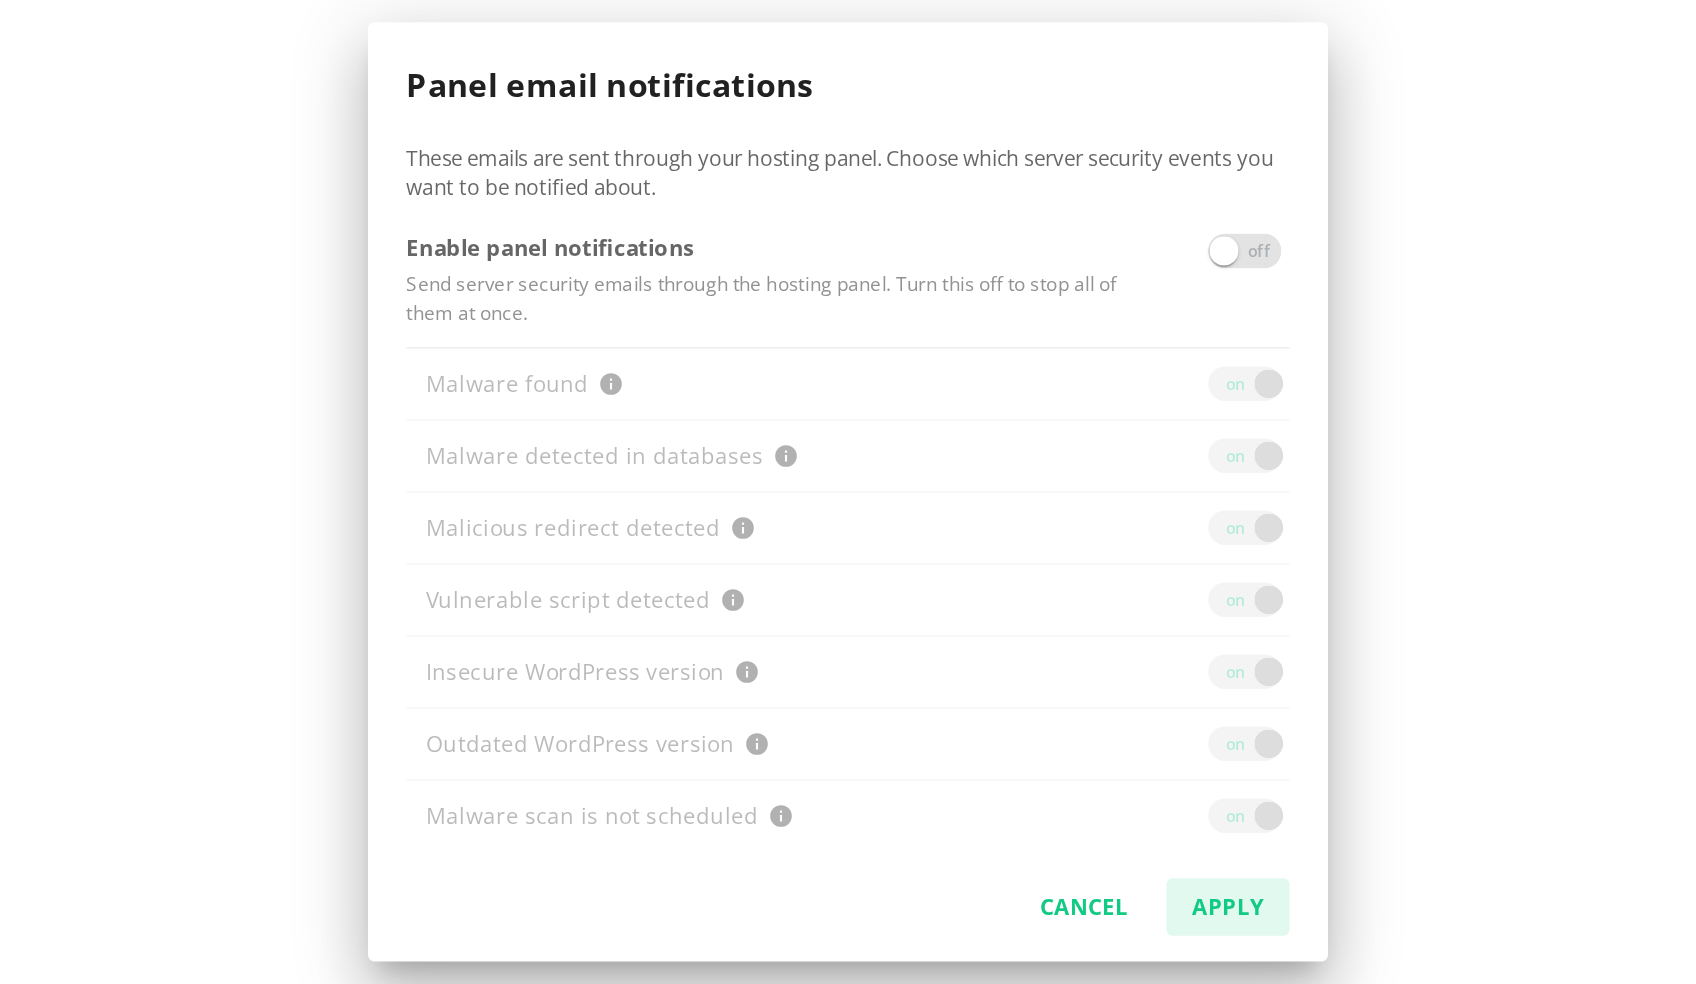
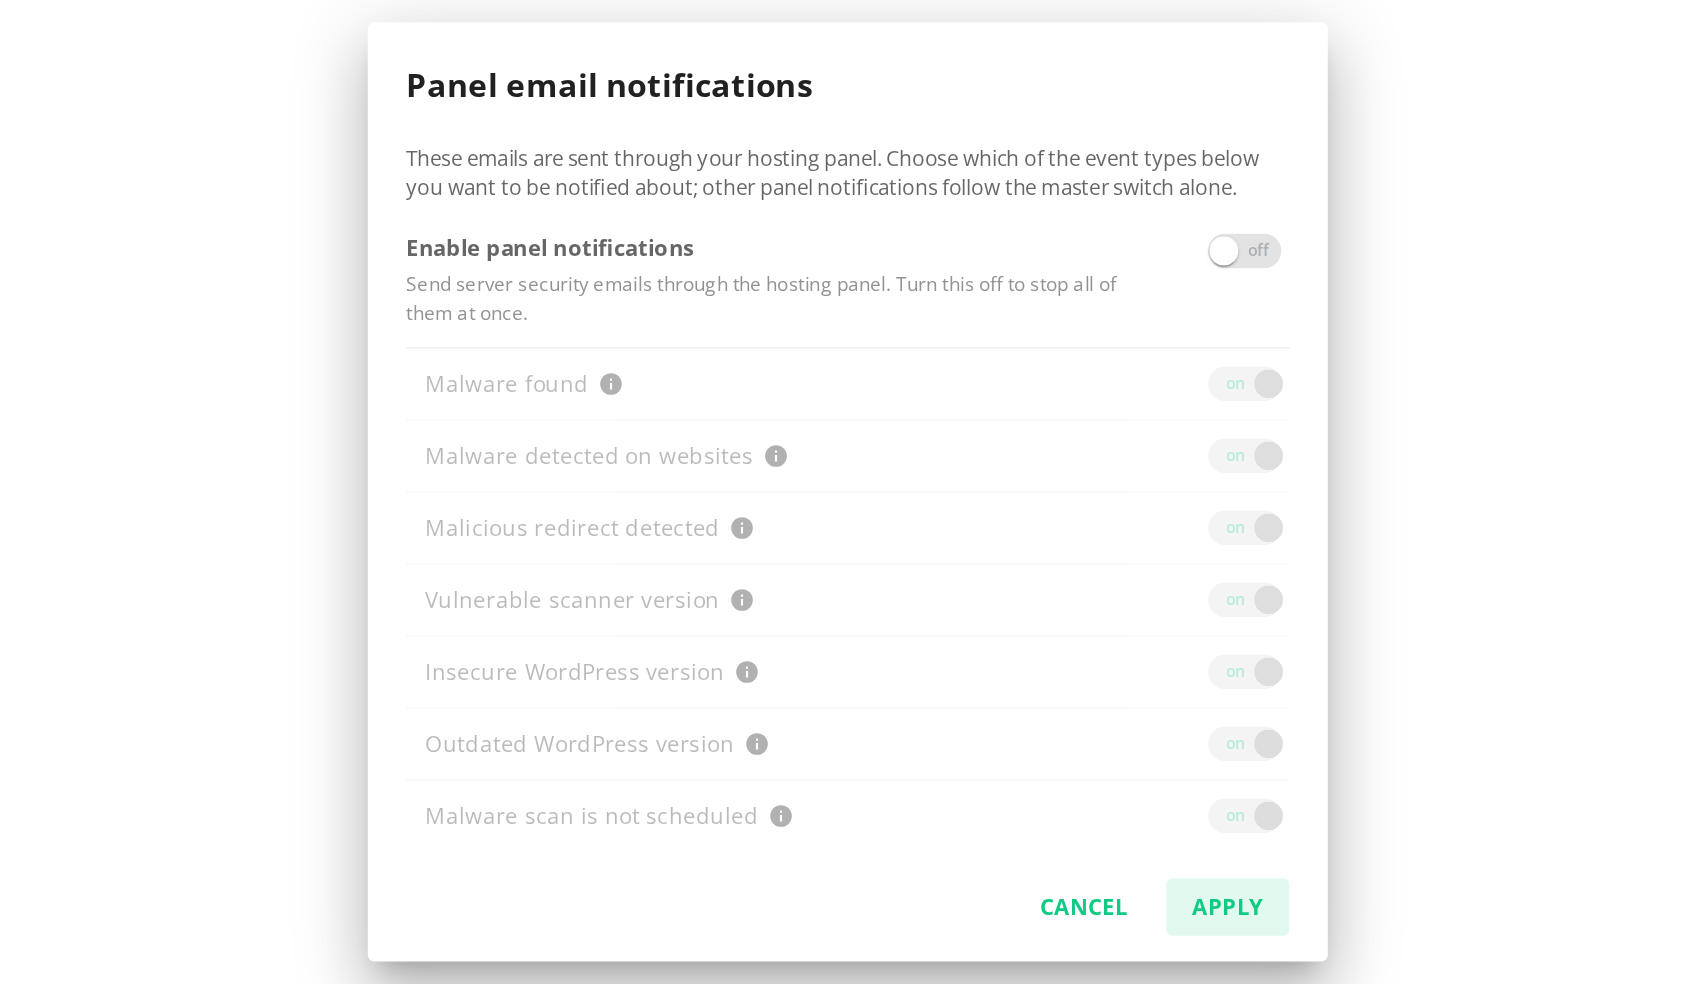
DEF-32258: document the per-product panel notification types
DEF-54860 made the panel notifications dialog show only the message
types the product can receive, and corrected two labels. Bring the docs
in line: the six ImunifyAV/AV+ types, the one type Imunify360 also
receives, and what the master switch still governs there.

diff --git a/docs/features/panel_notifications/README.md b/docs/features/panel_notifications/README.md
@@ -49,8 +49,11 @@ Two consequences follow from this design and account for most support questions:
 
 ## Message types
 
-The dialog lets you switch off seven message types individually. Each one is generated
-independently and has its own cooldown.
+Seven message types have a switch of their own. Six of them are addressed to
+<span class="notranslate">ImunifyAV</span> and <span class="notranslate">ImunifyAV+</span> servers
+and are never generated for an Imunify360 server; the only type that applies to every product is
+<span class="notranslate">**Vulnerable scanner version**</span>. Each type is generated independently
+and has its own cooldown.
 
 <table>
 <thead>
@@ -64,34 +67,34 @@ independently and has its own cooldown.
 <td><b>ImunifyAV / ImunifyAV+ only</b>; agent 6.7 or later</td>
 </tr>
 <tr>
-<td>Malware detected in databases</td><td><span class="notranslate"><code>malware_detected</code></span></td>
-<td>the <a href="/features/#malware-database-scanner-mds">Malware Database Scanner</a> detected malware in a database</td>
-<td>24 hours</td><td>all products</td>
+<td>Malware detected on websites</td><td><span class="notranslate"><code>malware_detected</code></span></td>
+<td>the website URL scan found malware on one of the sites hosted on the server</td>
+<td>24 hours</td><td><b>ImunifyAV / ImunifyAV+ only</b></td>
 </tr>
 <tr>
 <td>Malicious redirect detected</td><td><span class="notranslate"><code>malicious_redirect_detected</code></span></td>
 <td>a malicious redirect was detected on a website</td>
-<td>24 hours</td><td>all products</td>
+<td>24 hours</td><td><b>ImunifyAV / ImunifyAV+ only</b></td>
 </tr>
 <tr>
-<td>Vulnerable script detected</td><td><span class="notranslate"><code>aibolit_vulnerable</code></span></td>
-<td>the scanner detected a vulnerable script</td>
-<td>24 hours</td><td>all products</td>
+<td>Vulnerable scanner version</td><td><span class="notranslate"><code>aibolit_vulnerable</code></span></td>
+<td>the installed AI-Bolit scanner component is older than 32.7.4 and has a known vulnerability; updating Imunify brings the fixed version</td>
+<td>24 hours</td><td>all products, Imunify360 included</td>
 </tr>
 <tr>
 <td>Insecure WordPress version</td><td><span class="notranslate"><code>insecure_wp_core</code></span></td>
 <td>an installed WordPress core has known vulnerabilities</td>
-<td>7 days</td><td>all products</td>
+<td>7 days</td><td><b>ImunifyAV / ImunifyAV+ only</b></td>
 </tr>
 <tr>
 <td>Outdated WordPress version</td><td><span class="notranslate"><code>outdated_wp_core</code></span></td>
 <td>an installed WordPress core version is outdated</td>
-<td>7 days</td><td>all products</td>
+<td>7 days</td><td><b>ImunifyAV / ImunifyAV+ only</b></td>
 </tr>
 <tr>
 <td>Malware scan is not scheduled</td><td><span class="notranslate"><code>scan_not_scheduled</code></span></td>
 <td><span class="notranslate"><code>MALWARE_SCAN_SCHEDULE.interval</code></span> is set to <span class="notranslate"><code>none</code></span> <b>and</b> no user or background scan has run in the last 30 days</td>
-<td>7 days</td><td>all products; agent 6.7 or later</td>
+<td>7 days</td><td><b>ImunifyAV / ImunifyAV+ only</b>; agent 6.7 or later</td>
 </tr>
 </tbody>
 </table>
@@ -104,10 +107,11 @@ switch alone — turning all seven types off is **not** the same as turning pane
 ::::
 
 :::warning Important
-<span class="notranslate">**Malware found**</span> is an upgrade prompt addressed to
-<span class="notranslate">ImunifyAV</span> and <span class="notranslate">ImunifyAV+</span>
-administrators, and it is **never generated for an Imunify360 server** — Imunify360 already includes
-everything the message recommends.
+The six <span class="notranslate">ImunifyAV / ImunifyAV+</span> types are **never generated for an
+Imunify360 server**, whatever their switches say. <span class="notranslate">**Malware found**</span>
+in particular is an upgrade prompt addressed to <span class="notranslate">ImunifyAV</span> and
+<span class="notranslate">ImunifyAV+</span> administrators — Imunify360 already includes everything
+the message recommends.
 
 If you run Imunify360 and want an email whenever a scan finds malware, that is what
 [event notifications](/features/#notifications) are for: enable the
@@ -121,7 +125,10 @@ If you run Imunify360 and want an email whenever a scan finds malware, that is w
 
 Go to <span class="notranslate">_Settings → Notifications_</span> and click
 <span class="notranslate">_Manage panel notifications_</span> in the
-<span class="notranslate">_Panel notifications_</span> row.
+<span class="notranslate">_Panel notifications_</span> row. The dialog lists only the message types
+your product can receive, so it looks different on the two products.
+
+### On ImunifyAV / ImunifyAV+
 
 ![](/images/panel-email-notifications-dialog.png)
 
@@ -130,6 +137,23 @@ Go to <span class="notranslate">_Settings → Notifications_</span> and click
 
 ![](/images/panel-email-notifications-dialog-off.png)
 
+### On Imunify360
+
+![](/images/panel-email-notifications-dialog-i360.png)
+
+On Imunify360 the dialog offers the master switch and a single type,
+<span class="notranslate">**Vulnerable scanner version**</span>. The other six messages are addressed
+to <span class="notranslate">ImunifyAV / ImunifyAV+</span> servers and are never generated for
+Imunify360, so their switches are not shown. The master switch is still the control that matters
+here: it governs every message that has no switch of its own — the outdated agent version warning,
+PCI compliance notices, the compromised accounts report and the like. Turning it off silences all of
+them; turning <span class="notranslate">**Vulnerable scanner version**</span> off silences that one
+message only.
+
+The hidden types are not dropped from the configuration:
+<span class="notranslate">`DASHBOARD.notifications`</span> keeps all seven keys on every product, and
+the dialog saves the six it does not show unchanged.
+
 Click <span class="notranslate">_Apply_</span> to save. The dialog writes both
 <span class="notranslate">`ADMIN_CONTACTS.enable_icontact_notifications`</span> (the master switch)
 and <span class="notranslate">`DASHBOARD.notifications`</span> (the individual types) in a single
@@ -137,7 +161,9 @@ configuration update.
 
 ::::tip Note
 The dialog ships with Imunify UI **8.13.1**; the configuration keys behind it come with
-imunify-antivirus **8.8.2** (the antivirus component is part of both products). The
+imunify-antivirus **8.8.2** (the antivirus component is part of both products). Imunify UI 8.13.1
+itself still lists all seven types on both products; the product-specific list described above
+appears in the releases that follow it. The
 <span class="notranslate">_Panel notifications_</span> row appears only when both conditions hold:
 the control panel is cPanel/WHM or Plesk, **and** the agent reports a
 <span class="notranslate">`DASHBOARD.notifications`</span> section in its configuration. If the row
@@ -163,7 +189,7 @@ Panel notifications are controlled by three keys in
 </thead>
 <tbody>
 <tr><td><span class="notranslate"><code>ADMIN_CONTACTS.enable_icontact_notifications</code></span></td><td><span class="notranslate"><code>True</code></span></td><td>master switch for delivering generic messages through the panel</td></tr>
-<tr><td><span class="notranslate"><code>DASHBOARD.notifications.&lt;type&gt;</code></span></td><td><span class="notranslate"><code>True</code></span></td><td>whether the cloud generates this message type for this server</td></tr>
+<tr><td><span class="notranslate"><code>DASHBOARD.notifications.&lt;type&gt;</code></span></td><td><span class="notranslate"><code>True</code></span></td><td>whether the cloud generates this message type for this server; a type outside the product's scope is never generated, whatever the value</td></tr>
 <tr><td><span class="notranslate"><code>CONTROL_PANEL.generic_user_notifications</code></span></td><td><span class="notranslate"><code>True</code></span></td><td>whether user-targeted messages may be delivered to panel end users</td></tr>
 </tbody>
 </table>
@@ -198,22 +224,22 @@ imunify360-agent config update '{"ADMIN_CONTACTS": {"enable_icontact_notificatio
 ```
 </div>
 
-Turn off individual message types and keep the rest:
+Turn off the one type Imunify360 receives and keep the rest of the channel:
 
 <div class="notranslate">
 
 ```
-imunify360-agent config update '{"DASHBOARD": {"notifications": {"outdated_wp_core": false, "insecure_wp_core": false}}}'
+imunify360-agent config update '{"DASHBOARD": {"notifications": {"aibolit_vulnerable": false}}}'
 ```
 </div>
 
 The same commands on **ImunifyAV/AV+** use the <span class="notranslate">`imunify-antivirus`</span>
-binary:
+binary; there all seven types apply, so any of them can be switched off:
 
 <div class="notranslate">
 
 ```
-imunify-antivirus config update '{"DASHBOARD": {"notifications": {"scan_not_scheduled": false}}}'
+imunify-antivirus config update '{"DASHBOARD": {"notifications": {"outdated_wp_core": false, "insecure_wp_core": false}}}'
 ```
 </div>
 

diff --git a/docs/config_file_description/README.md b/docs/config_file_description/README.md
@@ -413,17 +413,17 @@ systemctl restart imunify360
 <tr><td><span class="notranslate">&nbsp;&nbsp;&nbsp;&nbsp;malware_found: True</span></td>
 <td># a user or background scan found malicious files. Generated for <span class="notranslate">ImunifyAV/AV+</span> servers only.</td></tr>
 <tr><td><span class="notranslate">&nbsp;&nbsp;&nbsp;&nbsp;malware_detected: True</span></td>
-<td># the <a href="/features/#malware-database-scanner-mds">Malware Database Scanner</a> detected malware in a database.</td></tr>
+<td># the website URL scan found malware on one of the sites hosted on the server. Generated for <span class="notranslate">ImunifyAV/AV+</span> servers only.</td></tr>
 <tr><td><span class="notranslate">&nbsp;&nbsp;&nbsp;&nbsp;malicious_redirect_detected: True</span></td>
-<td># a malicious redirect was detected on a website.</td></tr>
+<td># a malicious redirect was detected on a website. Generated for <span class="notranslate">ImunifyAV/AV+</span> servers only.</td></tr>
 <tr><td><span class="notranslate">&nbsp;&nbsp;&nbsp;&nbsp;aibolit_vulnerable: True</span></td>
-<td># a vulnerable script was detected.</td></tr>
+<td># the installed AI-Bolit scanner component is older than 32.7.4 and has a known vulnerability. The only type generated for every product, Imunify360 included.</td></tr>
 <tr><td><span class="notranslate">&nbsp;&nbsp;&nbsp;&nbsp;insecure_wp_core: True</span></td>
-<td># an installed WordPress core has known vulnerabilities.</td></tr>
+<td># an installed WordPress core has known vulnerabilities. Generated for <span class="notranslate">ImunifyAV/AV+</span> servers only.</td></tr>
 <tr><td><span class="notranslate">&nbsp;&nbsp;&nbsp;&nbsp;outdated_wp_core: True</span></td>
-<td># an installed WordPress core version is outdated.</td></tr>
+<td># an installed WordPress core version is outdated. Generated for <span class="notranslate">ImunifyAV/AV+</span> servers only.</td></tr>
 <tr><td><span class="notranslate">&nbsp;&nbsp;&nbsp;&nbsp;scan_not_scheduled: True</span></td>
-<td># no scheduled malware scan is configured (<span class="notranslate"><code>MALWARE_SCAN_SCHEDULE.interval</code></span> is <span class="notranslate"><code>none</code></span>) and no user or background scan has run in the last 30 days.</td></tr>
+<td># no scheduled malware scan is configured (<span class="notranslate"><code>MALWARE_SCAN_SCHEDULE.interval</code></span> is <span class="notranslate"><code>none</code></span>) and no user or background scan has run in the last 30 days. Generated for <span class="notranslate">ImunifyAV/AV+</span> servers only.</td></tr>
 <tr><th colspan="2" align="left"><span class="notranslate">SMTP_BLOCKING:</span></th></tr>
 <tr><td><span class="notranslate">enable: False</span></td>
 <td># enable (<span class="notranslate">True</span>) or disable (<span class="notranslate">False</span>) (default value) SMTP Traffic Management. When enabled, the outgoing SMTP traffic would be blocked according to the settings.</td></tr>

diff --git a/docs/imunifyav/config_file_description/README.md b/docs/imunifyav/config_file_description/README.md
@@ -68,17 +68,17 @@ In the config file it is possible to set up ImunifyAV(+) configuration. The foll
 <tr><td><span class="notranslate">&nbsp;&nbsp;&nbsp;&nbsp;malware_found: True</span></td>
 <td># a user or background scan found malicious files. Generated for <span class="notranslate">ImunifyAV/AV+</span> servers only.</td></tr>
 <tr><td><span class="notranslate">&nbsp;&nbsp;&nbsp;&nbsp;malware_detected: True</span></td>
-<td># the <span class="notranslate">Malware Database Scanner</span> detected malware in a database.</td></tr>
+<td># the website URL scan found malware on one of the sites hosted on the server. Generated for <span class="notranslate">ImunifyAV/AV+</span> servers only.</td></tr>
 <tr><td><span class="notranslate">&nbsp;&nbsp;&nbsp;&nbsp;malicious_redirect_detected: True</span></td>
-<td># a malicious redirect was detected on a website.</td></tr>
+<td># a malicious redirect was detected on a website. Generated for <span class="notranslate">ImunifyAV/AV+</span> servers only.</td></tr>
 <tr><td><span class="notranslate">&nbsp;&nbsp;&nbsp;&nbsp;aibolit_vulnerable: True</span></td>
-<td># a vulnerable script was detected.</td></tr>
+<td># the installed AI-Bolit scanner component is older than 32.7.4 and has a known vulnerability. The only type generated for every product, Imunify360 included.</td></tr>
 <tr><td><span class="notranslate">&nbsp;&nbsp;&nbsp;&nbsp;insecure_wp_core: True</span></td>
-<td># an installed WordPress core has known vulnerabilities.</td></tr>
+<td># an installed WordPress core has known vulnerabilities. Generated for <span class="notranslate">ImunifyAV/AV+</span> servers only.</td></tr>
 <tr><td><span class="notranslate">&nbsp;&nbsp;&nbsp;&nbsp;outdated_wp_core: True</span></td>
-<td># an installed WordPress core version is outdated.</td></tr>
+<td># an installed WordPress core version is outdated. Generated for <span class="notranslate">ImunifyAV/AV+</span> servers only.</td></tr>
 <tr><td><span class="notranslate">&nbsp;&nbsp;&nbsp;&nbsp;scan_not_scheduled: True</span></td>
-<td># no scheduled malware scan is configured (<span class="notranslate"><code>MALWARE_SCAN_SCHEDULE.interval</code></span> is <span class="notranslate"><code>none</code></span>) and no user or background scan has run in the last 30 days.</td></tr>
+<td># no scheduled malware scan is configured (<span class="notranslate"><code>MALWARE_SCAN_SCHEDULE.interval</code></span> is <span class="notranslate"><code>none</code></span>) and no user or background scan has run in the last 30 days. Generated for <span class="notranslate">ImunifyAV/AV+</span> servers only.</td></tr>
 <tr><th colspan="2" align="left"><span class="notranslate">CONTROL_PANEL:</span></th></tr>
 <tr><td><span class="notranslate">generic_user_notifications: True</span></td>
 <td># allow sending user-targeted generic notifications (iContact messages) to panel end users when applicable. Default value is True.</td></tr>

diff --git a/docs/dashboard/README.md b/docs/dashboard/README.md
@@ -2247,4 +2247,4 @@ this server, and which security emails the hosting panel delivers.
 The tab controls two separate things:
 
 * <span class="notranslate">**Event notifications**</span> — an email and/or a script hook per event, fired by the server itself. Every event is disabled by default, except the malware hook the agent enables on Plesk. See [Notifications](/features/#notifications) for the event reference, the delivery mechanics and troubleshooting, or [`notifications-config`](/command_line_interface/#notifications-config) to configure the same settings from the command line.
-* <span class="notranslate">**Panel notifications**</span> — the security digests that the Imunify cloud generates and the hosting panel delivers. The <span class="notranslate">_Manage panel notifications_</span> button opens a dialog with a switch per message type; all of them are enabled by default. See [Panel notifications (iContact)](/features/panel_notifications/). The row is shown only on cPanel and Plesk.
+* <span class="notranslate">**Panel notifications**</span> — the security digests that the Imunify cloud generates and the hosting panel delivers. The <span class="notranslate">_Manage panel notifications_</span> button opens a dialog with the master switch and a switch per message type the product can receive; on Imunify360 that is a single type, <span class="notranslate">_Vulnerable scanner version_</span>, because the other six panel messages are addressed to ImunifyAV/AV+ servers, and everything else on this channel follows the master switch. All switches are enabled by default. See [Panel notifications (iContact)](/features/panel_notifications/). The row is shown only on cPanel and Plesk.
